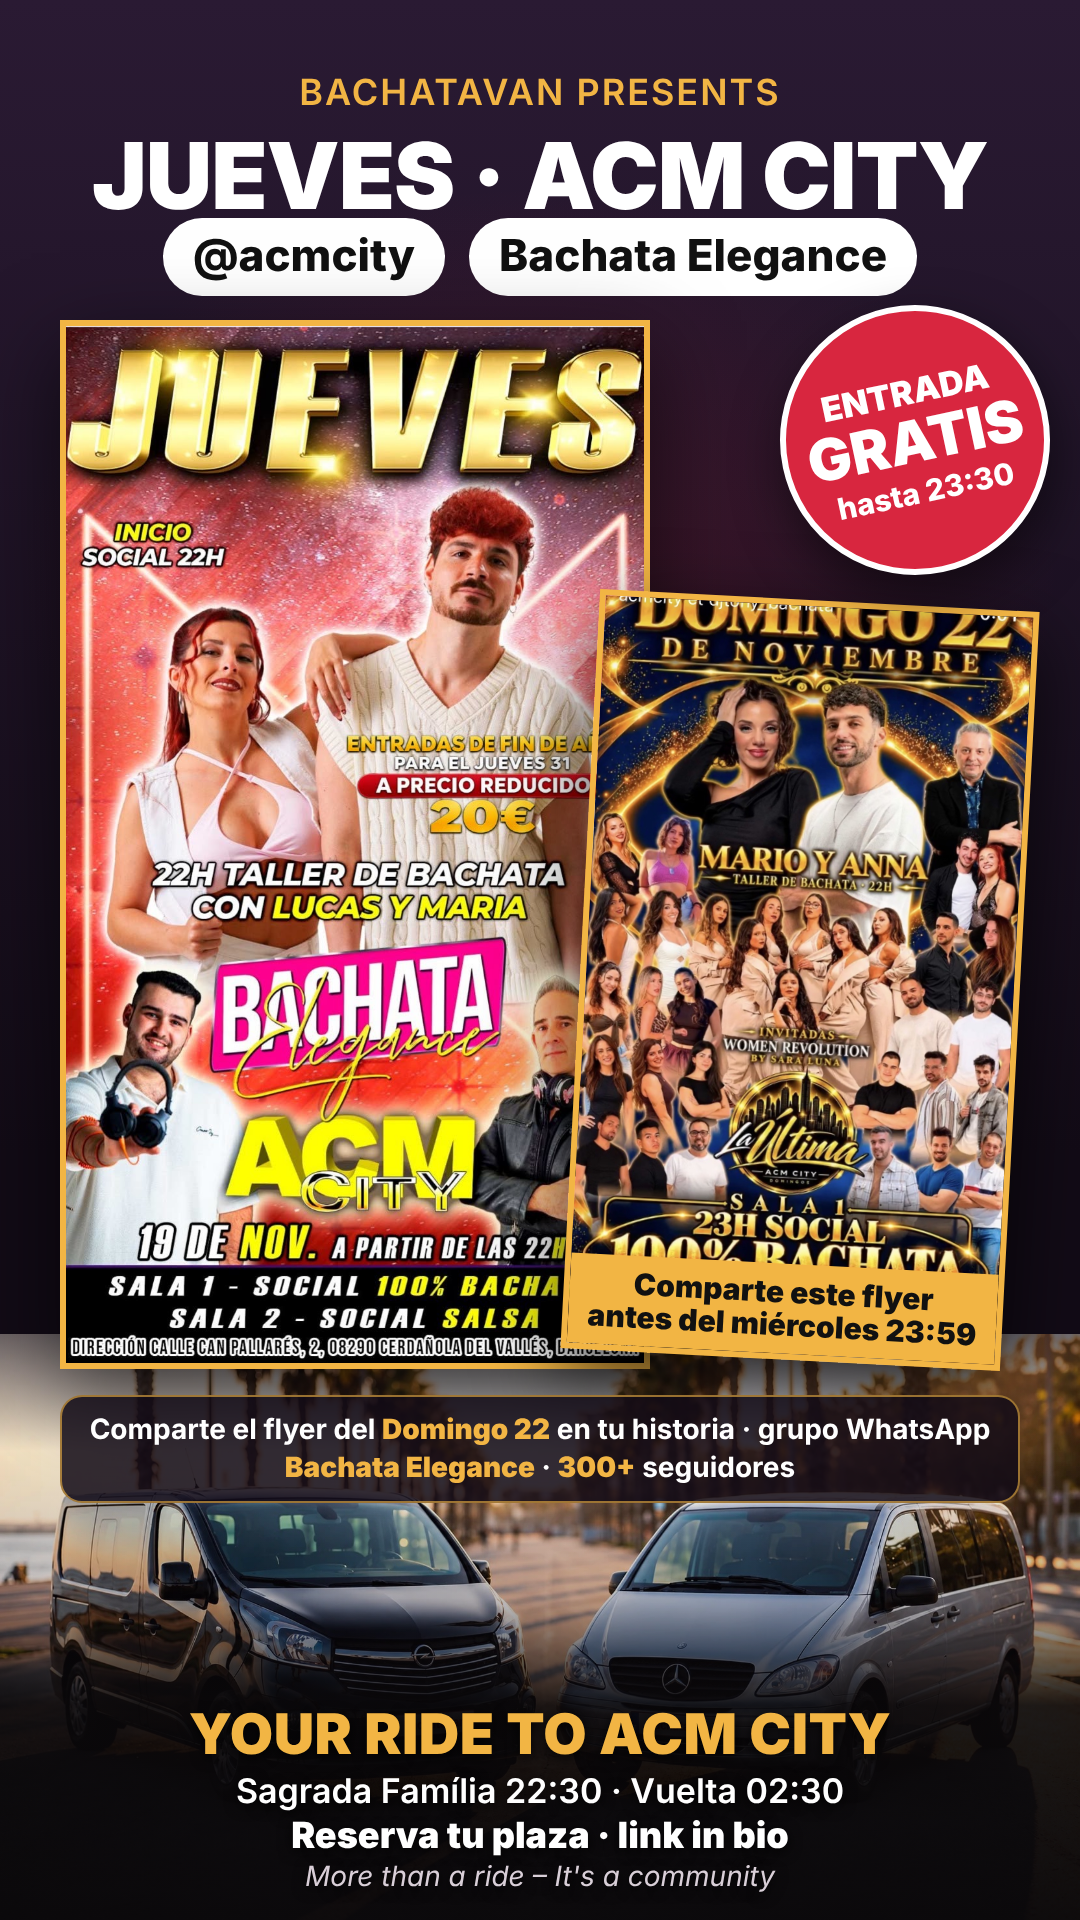
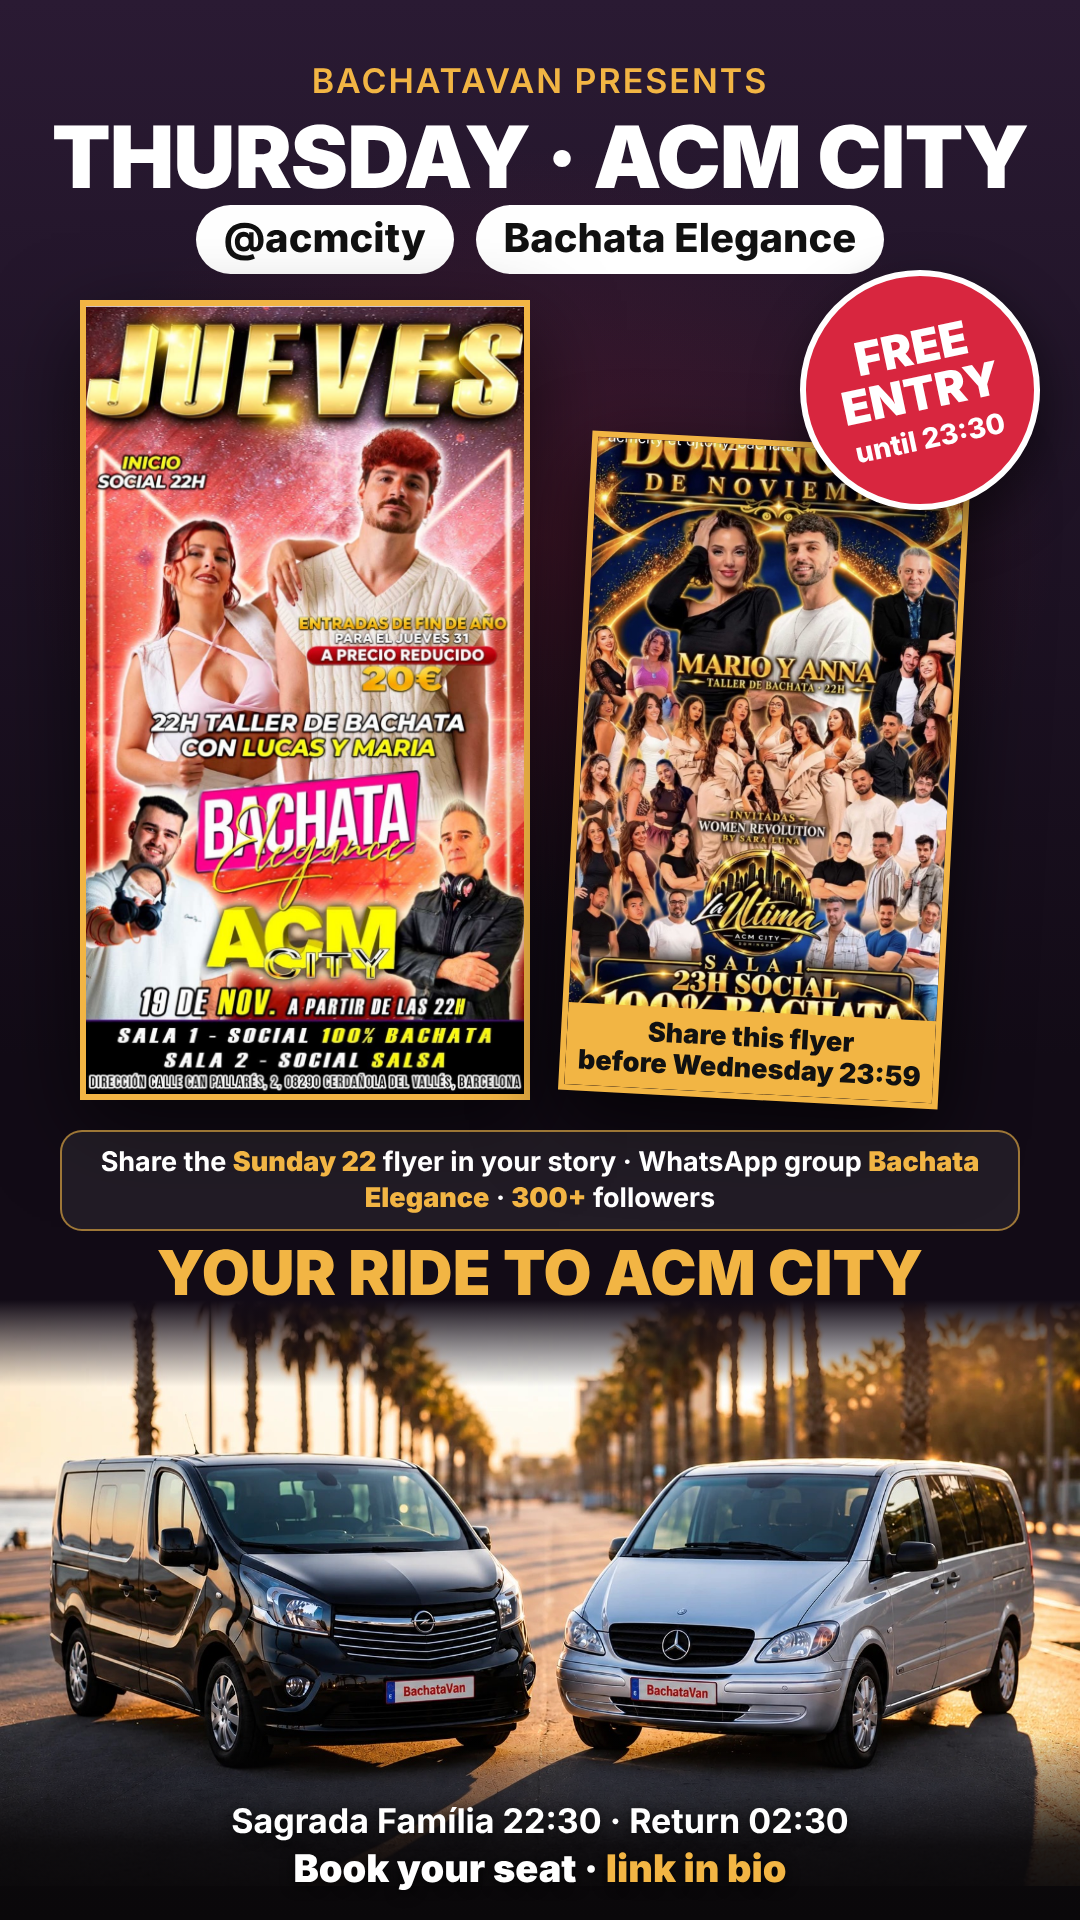
Story ACM 19/11 v2 : en anglais, vans mis en avant
Claude-Session: https://claude.ai/code/session_01NsQrkbqjcrN4n2gTAGkMgN

diff --git a/flyers/2026-11-19-acm-free-entry/flyer-v2.html b/flyers/2026-11-19-acm-free-entry/flyer-v2.html
@@ -1,49 +1,47 @@
 <!doctype html>
-<html lang="es"><head><meta charset="utf-8"><title>BachataVan × ACM · Jueves 19</title>
+<html lang="en"><head><meta charset="utf-8"><title>BachataVan × ACM · Thursday 19</title>
 <style>
   :root { --bg1: #2A1A33; --bg2: #120B16; --gold: #F2B544; --white: #FFFFFF; --red: #D8263F; }
   * { margin: 0; padding: 0; box-sizing: border-box; }
   html, body { width: 1080px; height: 1920px; overflow: hidden; }
-  body { position: relative; font-family: "Inter", sans-serif; color: var(--white); background: linear-gradient(180deg, var(--bg1) 0%, var(--bg2) 60%); }
-  .glow { position: absolute; inset: 0; background: radial-gradient(800px 600px at 50% 30%, rgba(216,38,63,.18), transparent 65%); }
-  .presents { position: absolute; top: 70px; left: 0; right: 0; text-align: center; font-weight: 600; font-size: 36px; letter-spacing: 2px; color: var(--gold); }
-  h1 { position: absolute; top: 120px; left: 0; right: 0; text-align: center; font-weight: 900; font-size: 92px; letter-spacing: -1px; white-space: nowrap; }
-  .pills { position: absolute; top: 218px; left: 0; right: 0; display: flex; justify-content: center; gap: 24px; }
-  .pills span { background: var(--white); color: #111; font-weight: 800; font-size: 44px; padding: 10px 30px 14px; border-radius: 999px; }
-  .main { position: absolute; left: 60px; top: 320px; width: 590px; height: 1049px; border: 6px solid var(--gold); overflow: hidden; box-shadow: 0 30px 80px rgba(0,0,0,.6); }
+  body { position: relative; font-family: "Inter", sans-serif; color: var(--white); background: linear-gradient(180deg, var(--bg1) 0%, var(--bg2) 55%); }
+  .glow { position: absolute; inset: 0; background: radial-gradient(800px 600px at 50% 28%, rgba(216,38,63,.18), transparent 65%); }
+  .presents { position: absolute; top: 60px; left: 0; right: 0; text-align: center; font-weight: 600; font-size: 34px; letter-spacing: 2px; color: var(--gold); }
+  h1 { position: absolute; top: 105px; left: 0; right: 0; text-align: center; font-weight: 900; font-size: 86px; letter-spacing: -1px; white-space: nowrap; }
+  .pills { position: absolute; top: 205px; left: 0; right: 0; display: flex; justify-content: center; gap: 22px; }
+  .pills span { background: var(--white); color: #111; font-weight: 800; font-size: 40px; padding: 8px 28px 12px; border-radius: 999px; }
+  .main { position: absolute; left: 80px; top: 300px; width: 450px; height: 800px; border: 6px solid var(--gold); overflow: hidden; box-shadow: 0 30px 80px rgba(0,0,0,.6); }
   .main img { width: 100%; height: 100%; object-fit: cover; display: block; }
-  .second { position: absolute; left: 580px; top: 600px; width: 440px; height: 760px; border: 6px solid var(--gold); overflow: hidden; transform: rotate(3deg); box-shadow: 0 30px 80px rgba(0,0,0,.7); }
+  .second { position: absolute; left: 575px; top: 440px; width: 380px; height: 660px; border: 6px solid var(--gold); overflow: hidden; transform: rotate(3deg); box-shadow: 0 30px 80px rgba(0,0,0,.7); }
   .second img { width: 100%; height: 100%; object-fit: cover; object-position: center top; display: block; }
-  .second .tag { position: absolute; left: 0; right: 0; bottom: 0; background: var(--gold); color: #111; font-weight: 900; font-size: 30px; text-align: center; padding: 12px 6px; line-height: 1.1; }
-  .badge { position: absolute; left: 780px; top: 305px; width: 270px; height: 270px; border-radius: 50%; background: var(--red); border: 6px solid var(--white); display: flex; flex-direction: column; align-items: center; justify-content: center; text-align: center; transform: rotate(-12deg); box-shadow: 0 20px 50px rgba(0,0,0,.5); z-index: 5; }
-  .badge small { font-weight: 900; font-size: 34px; }
-  .badge b { font-weight: 900; font-size: 58px; line-height: 1; }
-  .badge em { font-style: normal; font-weight: 800; font-size: 30px; margin-top: 4px; }
-  .cond { position: absolute; left: 60px; right: 60px; top: 1395px; text-align: center; font-size: 28px; font-weight: 700; color: #FFFFFF; line-height: 1.35; background: rgba(18,11,22,.85); border: 2px solid rgba(242,181,68,.6); border-radius: 22px; padding: 14px 20px; z-index: 4; }
+  .second .tag { position: absolute; left: 0; right: 0; bottom: 0; background: var(--gold); color: #111; font-weight: 900; font-size: 27px; text-align: center; padding: 10px 6px; line-height: 1.15; }
+  .badge { position: absolute; left: 800px; top: 270px; width: 240px; height: 240px; border-radius: 50%; background: var(--red); border: 6px solid var(--white); display: flex; flex-direction: column; align-items: center; justify-content: center; text-align: center; transform: rotate(-12deg); box-shadow: 0 20px 50px rgba(0,0,0,.5); z-index: 5; }
+  .badge small, .badge b { font-weight: 900; font-size: 46px; line-height: 1; }
+  .badge em { font-style: normal; font-weight: 800; font-size: 28px; margin-top: 6px; }
+  .cond { position: absolute; left: 60px; right: 60px; top: 1130px; text-align: center; font-size: 27px; font-weight: 700; line-height: 1.35; background: rgba(255,255,255,.07); border: 2px solid rgba(242,181,68,.6); border-radius: 22px; padding: 12px 18px; }
   .cond b { color: var(--gold); }
-  .vans { position: absolute; left: 0; right: 0; top: 1250px; height: 670px; overflow: hidden; z-index: -1; }
-  .vans img { position: absolute; left: 0; bottom: 0; width: 1080px; height: 586px; object-fit: cover; }
-  .vans .shade { position: absolute; inset: 0; background: linear-gradient(180deg, var(--bg2) 0%, rgba(18,11,22,.05) 30%, rgba(18,11,22,.25) 52%, rgba(10,8,10,.92) 68%, rgba(10,8,10,.98) 100%); }
-  .bottom { position: absolute; left: 0; right: 0; top: 1700px; text-align: center; text-shadow: 0 3px 14px rgba(0,0,0,.9); }
-  .bottom .t { font-weight: 900; font-size: 56px; color: var(--gold); letter-spacing: .5px; }
-  .bottom .l { font-weight: 600; font-size: 34px; margin-top: 2px; }
-  .bottom .b { font-weight: 900; font-size: 36px; margin-top: 2px; }
-  .bottom .s { font-style: italic; font-size: 28px; color: #D9CFD8; margin-top: 2px; }
+  .ride { position: absolute; left: 0; right: 0; top: 1235px; text-align: center; font-weight: 900; font-size: 62px; color: var(--gold); z-index: 3; }
+  .vans { position: absolute; left: 0; right: 0; top: 1300px; height: 620px; overflow: hidden; }
+  .vans img { position: absolute; left: 0; top: 0; width: 1080px; height: 586px; object-fit: cover; }
+  .vans .shade { position: absolute; inset: 0; background: linear-gradient(180deg, var(--bg2) 0%, rgba(18,11,22,0) 14%, rgba(18,11,22,0) 70%, rgba(10,8,10,.9) 88%, #0A080A 100%); }
+  .bottom { position: absolute; left: 0; right: 0; top: 1800px; text-align: center; text-shadow: 0 3px 14px rgba(0,0,0,.9); }
+  .bottom .l { font-weight: 700; font-size: 34px; }
+  .bottom .b { font-weight: 900; font-size: 38px; margin-top: 4px; }
+  .bottom .b span { color: var(--gold); }
 </style></head>
 <body>
   <div class="glow"></div>
-  <div class="vans"><img src="vans.jpg" alt=""><div class="shade"></div></div>
   <div class="presents">BACHATAVAN PRESENTS</div>
-  <h1>JUEVES · ACM CITY</h1>
+  <h1>THURSDAY · ACM CITY</h1>
   <div class="pills"><span>@acmcity</span><span>Bachata Elegance</span></div>
-  <div class="main"><img src="jueves.jpg" alt="Jueves 19 ACM City"></div>
-  <div class="second"><img src="share-domingo.jpg" alt="Domingo 22 La Última"><div class="tag">Comparte este flyer<br>antes del miércoles 23:59</div></div>
-  <div class="badge"><small>ENTRADA</small><b>GRATIS</b><em>hasta 23:30</em></div>
-  <div class="cond">Comparte el flyer del <b>Domingo 22</b> en tu historia · grupo WhatsApp <b>Bachata Elegance</b> · <b>300+</b> seguidores</div>
+  <div class="main"><img src="jueves.jpg" alt="Thursday 19 ACM City"></div>
+  <div class="second"><img src="share-domingo.jpg" alt="Sunday 22 La Última"><div class="tag">Share this flyer<br>before Wednesday 23:59</div></div>
+  <div class="badge"><small>FREE</small><b>ENTRY</b><em>until 23:30</em></div>
+  <div class="cond">Share the <b>Sunday 22</b> flyer in your story · WhatsApp group <b>Bachata Elegance</b> · <b>300+</b> followers</div>
+  <div class="ride">YOUR RIDE TO ACM CITY</div>
+  <div class="vans"><img src="vans.jpg" alt="The two BachataVan vans"><div class="shade"></div></div>
   <div class="bottom">
-    <div class="t">YOUR RIDE TO ACM CITY</div>
-    <div class="l">Sagrada Família 22:30 · Vuelta 02:30</div>
-    <div class="b">Reserva tu plaza · link in bio</div>
-    <div class="s">More than a ride – It's a community</div>
+    <div class="l">Sagrada Família 22:30 · Return 02:30</div>
+    <div class="b">Book your seat · <span>link in bio</span></div>
   </div>
 </body></html>
